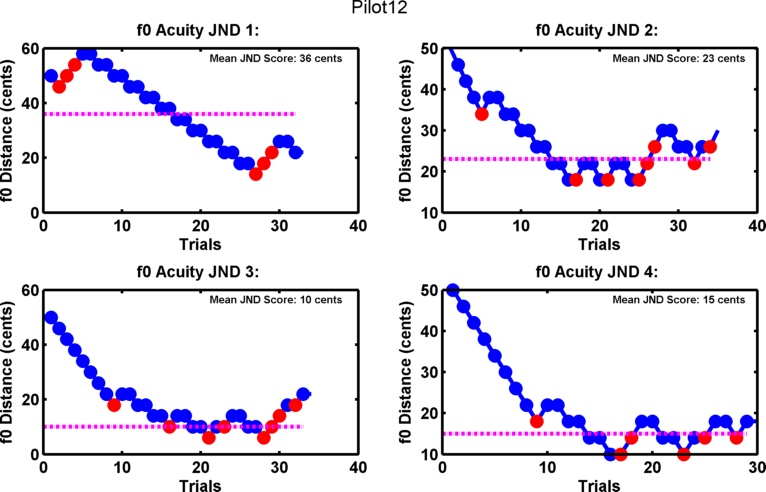
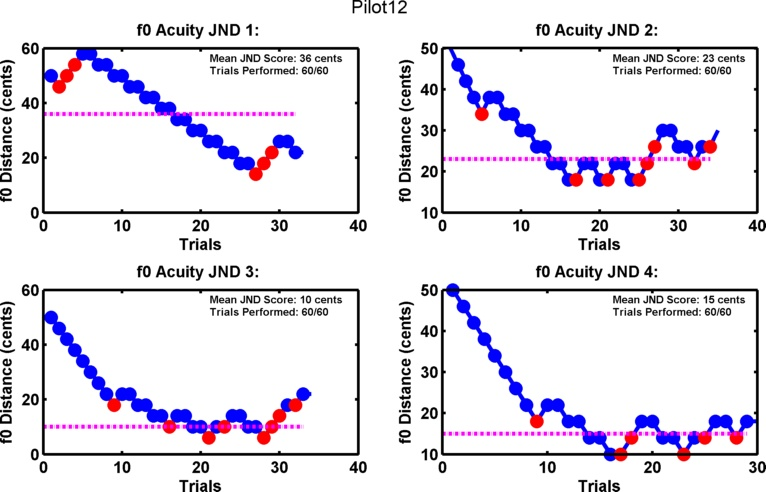
Some new results
Pilot13 and a new annotation

diff --git a/Analysis/dfAnalysisJND.m b/Analysis/dfAnalysisJND.m
@@ -1,7 +1,7 @@
 function dfAnalysisJND()
 
 JNDa.project      = 'Dissociating-Role-of-Feedback-in-Voice-Motor-Control';
-JNDa.participant  = 'Pilot12'; %List of multiple participants.
+JNDa.participant  = 'Pilot13'; %List of multiple participants.
 runs2Analyze      = 1:4;
 
 dirs = dfDirs(JNDa.project);

diff --git a/Analysis/drawJNDResults.m b/Analysis/drawJNDResults.m
@@ -26,7 +26,7 @@ for ii = runs2Analyze
         anno2 = ['Catch Accuracy: ' num2str(catchAccu) '%'];
     else
         note = [];
-        anno2 = [];
+        anno2 = ['Trials Performed: ' num2str(UD.performedTrials) '/' num2str(UD.totalTrials)];
     end
     
     axes(ha(ii))
